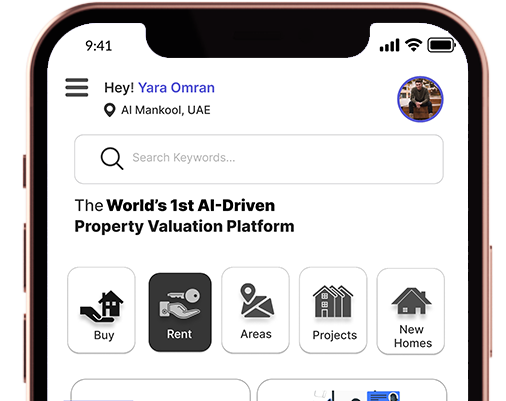
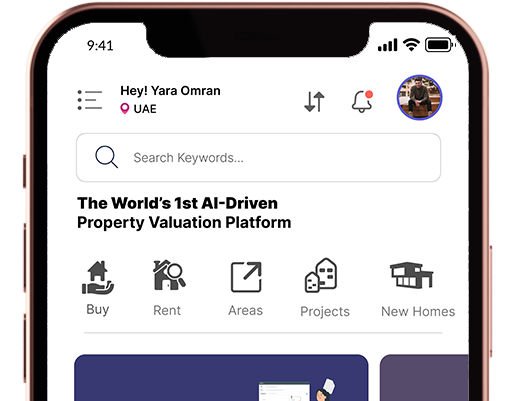
Design Changes

diff --git a/src/styles.scss b/src/styles.scss
@@ -9591,8 +9591,8 @@ margin-right: 0px;
 			li {
 				width: 100%;
 				display: block;
-				padding: 0px;
-				margin-bottom: 10px;
+				padding: 0px !important;
+				margin-bottom: 5px;
 			}
 		}
 	}
@@ -11920,6 +11920,10 @@ background: transparent !important;
 	.property_info-row .row > div {
 		padding-bottom: 8px;
 		margin-bottom: 8px;
+	}
+	.free-proplisting .first-title {
+		padding-right: 0px !important;
+		padding-left: 0px !important;
 	}
 	.property-price_detals h4 {
 		line-height: 25px !important;

diff --git a/src/app/ar/dashboard/dashboard/dashboard.component.scss b/src/app/ar/dashboard/dashboard/dashboard.component.scss
@@ -96,7 +96,7 @@ $btncolor: #0B26AD;
     margin: 30px 0px;
 
     .first-title {
-        padding-right: 30px;
+        padding-left: 30px;
     }
 
     .title {
@@ -1019,7 +1019,7 @@ $btncolor: #0B26AD;
                 align-items: center;
                 color: #4A565F;
                 font-size: 14px;
-                font-weight: 500;
+                font-weight: 400;
 
                 img {
                     margin-right: 8px;

diff --git a/src/app/dashboard/dashboard/dashboard.component.scss b/src/app/dashboard/dashboard/dashboard.component.scss
@@ -1019,7 +1019,7 @@ $btncolor: #0B26AD;
                 align-items: center;
                 color: #4A565F;
                 font-size: 14px;
-                font-weight: 500;
+                font-weight: 400;
 
                 img {
                     margin-right: 8px;
